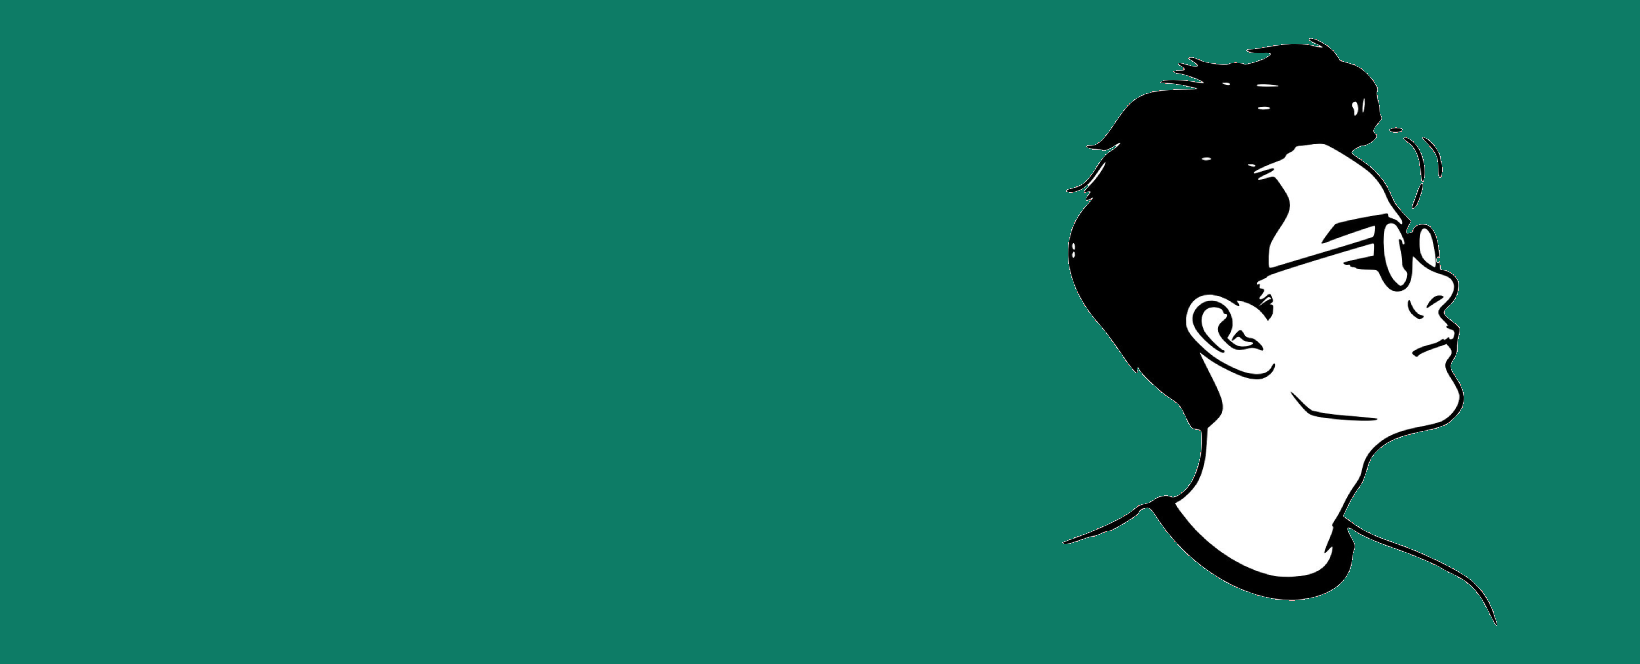
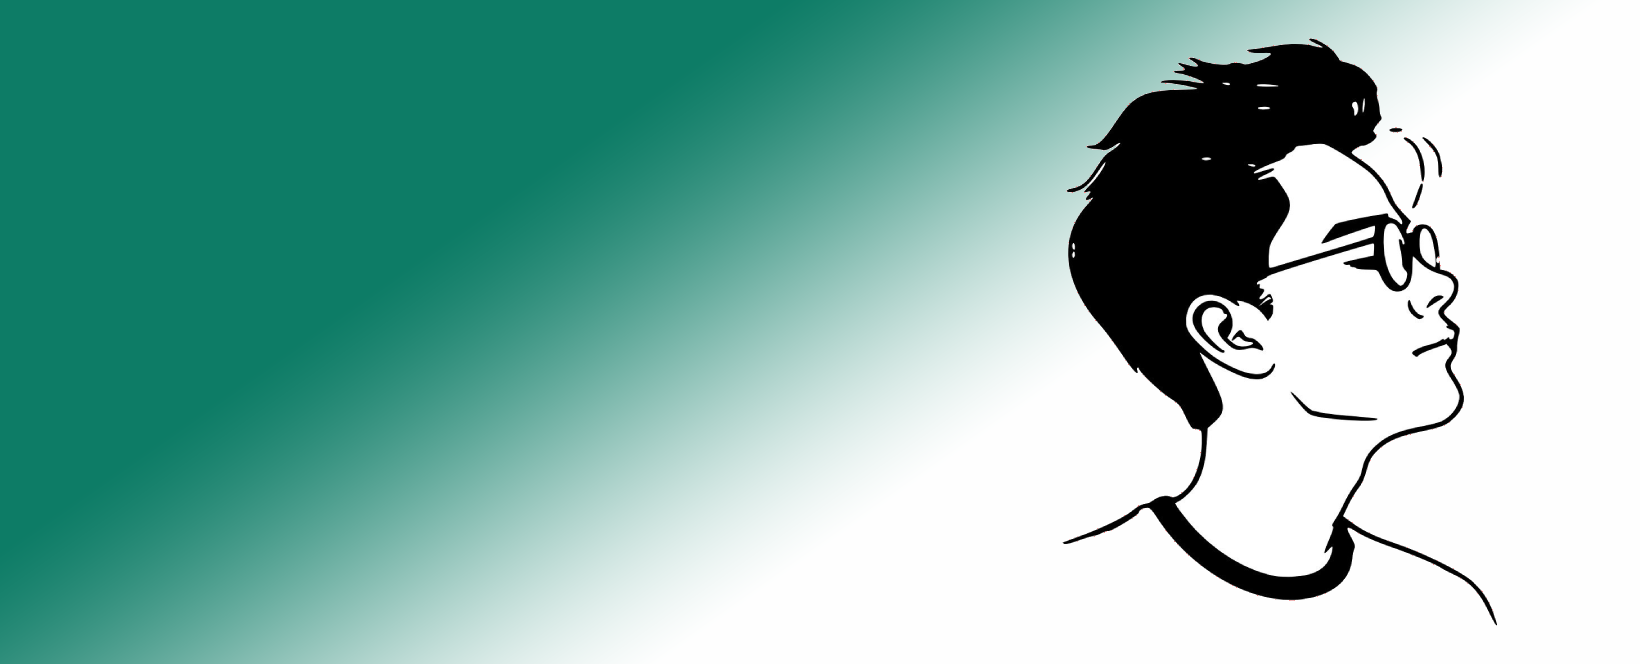
try new  color theme

diff --git a/src/App.js b/src/App.js
@@ -1,5 +1,4 @@
 import './App.css';
-import { Container } from './Components/Container/Container';
 import { Header } from './Components/Header/Header';
 import { SectionOne } from './Components/SectionOne/SectionOne';
 import { useState, useEffect, useRef } from 'react';
@@ -8,7 +7,6 @@ import { SectionThree } from './Components/SectionThree/SectionThree';
 import { SectionFour } from './Components/SectionFour/SectionFour';
 import { SectionFive } from './Components/SectionFive/SectionFive';
 import Footer from './Components/Footer/Footer';
-import { motion } from 'framer-motion'; // Import framer-motion
 
 function App() {
   const [activeSection, setActiveSection] = useState('section1');
@@ -45,82 +43,53 @@ function App() {
     return () => window.removeEventListener('scroll', handleScroll);
   }, []);
 
-  // Define a sliding animation from left to right
-  // Slide in from the left
-  const slideInFromLeft = {
-    hidden: { opacity: 0, x: -100 },  // Hidden off-screen to the left
-    visible: { opacity: 1, x: 0, transition: { duration: 0.5 } }, // Animates to the original position
-  };
-
-  // Slide in from the right
-  const slideInFromRight = {
-    hidden: { opacity: 0, x: 100 },  // Hidden off-screen to the right
-    visible: { opacity: 1, x: 0, transition: { duration: 0.5 } }, // Animates to the original position
-  };
-
-
   return (
     <>
       <Header onSelect={handleSelect} activeSection={activeSection} />
 
-      <motion.div
+      <div
         className="main-content-section"
         ref={sectionRefs.section1}
         id="section1"
-        initial="hidden"
-        animate="visible"
-        variants={slideInFromLeft}
       >
         <SectionOne
           name="Krishna Sharma"
           para="In my work, I prioritize performance, accessibility, and responsive design, ensuring that every project I undertake not only looks great but also performs seamlessly across all devices."
           onGetStarted={() => handleSelect('section2')}
         />
-      </motion.div>
+      </div>
 
-      <motion.div
+      <div
         className="main-content-section"
         ref={sectionRefs.section2}
         id="section2"
-        initial="hidden"
-        animate="visible"
-        variants={slideInFromRight}
       >
         <SectionTwo />
-      </motion.div>
+      </div>
 
-      <motion.div
+      <div
         className="main-content-section"
         ref={sectionRefs.section3}
         id="section3"
-        initial="hidden"
-        animate="visible"
-        variants={slideInFromLeft}
       >
         <SectionThree />
-      </motion.div>
+      </div>
 
-      <motion.div
+      <div
         className="main-content-section"
         ref={sectionRefs.section4}
         id="section4"
-        initial="hidden"
-        animate="visible"
-        variants={slideInFromRight}
       >
         <SectionFour />
-      </motion.div>
+      </div>
 
-      <motion.div
+      <div
         className="main-content-section"
         ref={sectionRefs.section5}
         id="section5"
-        initial="hidden"
-        animate="visible"
-        variants={slideInFromLeft}
       >
         <SectionFive />
-      </motion.div>
+      </div>
 
       <Footer
         onHomeClick={() => handleSelect('section1')}

diff --git a/src/Components/SectionOne/SectionOne.js b/src/Components/SectionOne/SectionOne.js
@@ -1,19 +1,66 @@
-import React from 'react'
-import "./SectionOne.css"
-import { AnimatedText } from './AnimatedText/AnimatedText'
+import React from 'react';
+import { motion } from 'framer-motion';
+import { useInView } from 'react-intersection-observer';
+import "./SectionOne.css";
+import { AnimatedText } from './AnimatedText/AnimatedText';
+
 export const SectionOne = (props) => {
-  const text = ["Frontend Engineer.", "Editor.", 'Web Developer']
+  const text = ["Frontend Engineer.", "Editor.", 'Web Developer'];
+
+  // Use useInView to track the visibility of the section
+  const { ref, inView } = useInView({
+    triggerOnce: true, // Trigger animation only once
+    threshold: 0.1,    // When 10% of the section is visible
+  });
+
+  // Define the animation variants
+  const sectionVariants = {
+    hidden: { opacity: 0, y: 50 },
+    visible: { opacity: 1, y: 0, transition: { duration: 0.8 } }
+  };
+
+  const nameVariants = {
+    hidden: { opacity: 0, y: -20 },
+    visible: { opacity: 1, y: 0, transition: { duration: 0.6, delay: 0.2 } }
+  };
+
+  const textVariants = {
+    hidden: { opacity: 0, y: 20 },
+    visible: { opacity: 1, y: 0, transition: { duration: 0.6, delay: 0.4 } }
+  };
+
+  const buttonVariants = {
+    hidden: { opacity: 0, scale: 0.9 },
+    visible: { opacity: 1, scale: 1, transition: { duration: 0.6, delay: 0.6 } }
+  };
 
   return (
-    <div className='vh90 sectionOne-main'>
-        <div className='wx-50 p-30'>
-            <span className='p-5 fs-40 border-bold-2 color-red'>{props.name}</span>
-            <AnimatedText texts={text} fontSize="20px" />
-            <p>{props.para}</p>
-            <div>
-                <button className='button-style-primary' onClick={props.onGetStarted}>GET STARTED</button>
-            </div>
-        </div>
-    </div>
-  )
+    <motion.div
+      className='vh90 sectionOne-main'
+      ref={ref}
+      initial="hidden"
+      animate={inView ? "visible" : "hidden"}
+      variants={sectionVariants}
+    >
+      <div className='wx-50 p-30'>
+        <motion.span
+          className='p-5 fs-40 border-bold-2 color-red'
+          variants={nameVariants}
+        >
+          {props.name}
+        </motion.span>
+        <motion.div
+          variants={textVariants}
+        >
+          <AnimatedText texts={text} fontSize="20px" />
+        </motion.div>
+        <p>{props.para}</p>
+        <motion.div
+          variants={buttonVariants}
+        >
+          <button className='button-style-primary' onClick={props.onGetStarted}>GET STARTED</button>
+        </motion.div>
+      </div>
+    </motion.div>
+  );
 }

diff --git a/src/Components/Footer/Footer.css b/src/Components/Footer/Footer.css
@@ -1,5 +1,5 @@
 .footer {
-    background-color: #0D7C66;
+    background-color: #2b4162;
     color: white;
     padding: 20px 0;
     font-family: sans-serif;
@@ -7,7 +7,7 @@
   
   .footer-content {
     display: flex;
-    background-color: #0D7C66;
+    background-color: #2b4162;
     justify-content: space-around;
     color: white;
     align-items: flex-start;
@@ -16,7 +16,7 @@
   
   .footer-section {
     flex: 1;
-    background-color: #0D7C66;
+    background-color: #2b4162;
     color: white;
     padding: 0 20px;
   }
@@ -26,14 +26,14 @@
     margin-bottom: 10px;
     border-bottom: 2px solid white;
     padding-bottom: 5px;
-    background-color: #0D7C66;
+    background-color: #2b4162;
     color: white;
   }
   
   .footer-section p, .footer-section ul {
     margin: 0;
     padding: 0;
-    background-color: #0D7C66;
+    background-color: #2b4162;
     color: white;
   }
 
@@ -43,13 +43,13 @@
   
   .footer-section ul {
     list-style-type: none;
-    background-color: #0D7C66;
+    background-color: #2b4162;
     color: white;
   }
   
   .footer-section ul li {
     margin: 5px 0;
-    background-color: #0D7C66;
+    background-color: #2b4162;
     color: white;
   }
   
@@ -58,7 +58,7 @@
     text-decoration: none;
     transition: color 0.3s;
     font-weight: 700;
-    background-color: #0D7C66;
+    background-color: #2b4162;
   }
   
   .footer-section ul li a:hover {

diff --git a/src/App.css b/src/App.css
@@ -16,7 +16,7 @@ html {
  background-color: white;
 }
 .bg-red {
- background-color:#0D7C66;
+ background-color:#2b4162;
 }
 .bg-grey{
   background-color: #222222;
@@ -61,13 +61,13 @@ html {
 
 /* BORDER */
 .border-bold-2{
-  border: 2px solid #0D7C66;
+  border: 2px solid #2b4162;
 }
 
 /* COLORS */
 
 .color-red {
-  color: #0D7C66;
+  color: #2b4162;
 }
 .color-gold {
   color: gold;
@@ -139,7 +139,7 @@ html {
 }
 
 .button-style-primary {
-  background-color: #0D7C66;
+  background-color: #2b4162;
   text-decoration: none;
     color: white;
     border: 1px solid black;
@@ -155,13 +155,13 @@ html {
 
 .button-style-primary:hover {
   background-color: white;
-  color: #0D7C66;
+  color: #2b4162;
 }
 
 .button-style-primary:active {
   background-color: darkred;
   color: black;
-  border-color: #0D7C66;
+  border-color: #2b4162;
 }
 
 .heading-with-line {

diff --git a/src/Components/SkillProgressBar/Progressbar.css b/src/Components/SkillProgressBar/Progressbar.css
@@ -18,7 +18,7 @@
   }
   
   .progress-bar {
-    background: linear-gradient(90deg,  #0D7C66,red);
+    background: linear-gradient(90deg,  grey,#0D7C66);
     height: 10px;
     display: flex;
     align-items: center;

diff --git a/src/Components/SectionFour/SectionFour.js b/src/Components/SectionFour/SectionFour.js
@@ -18,7 +18,7 @@ export const SectionFour = () => {
   };
 
   const { ref, inView } = useInView({
-    threshold: 0.1,   // Adjust this value as needed
+    threshold: 0.1,
   });
 
   return (

diff --git a/src/Components/SectionThree/SectionThree.css b/src/Components/SectionThree/SectionThree.css
@@ -23,7 +23,7 @@
     align-items: center;
     justify-content: center;
     margin: 0 auto 20px;
-    color: #0D7C66;
+    color: #2b4162;
     font-size: 24px;
   }
   

diff --git a/src/Components/SectionOne/SectionOne.css b/src/Components/SectionOne/SectionOne.css
@@ -31,7 +31,7 @@
 }
 
 .color-red {
-    color: #0D7C66;
+    color: #2b4162;
 }
 
 /* Adjust for medium-sized screens */
